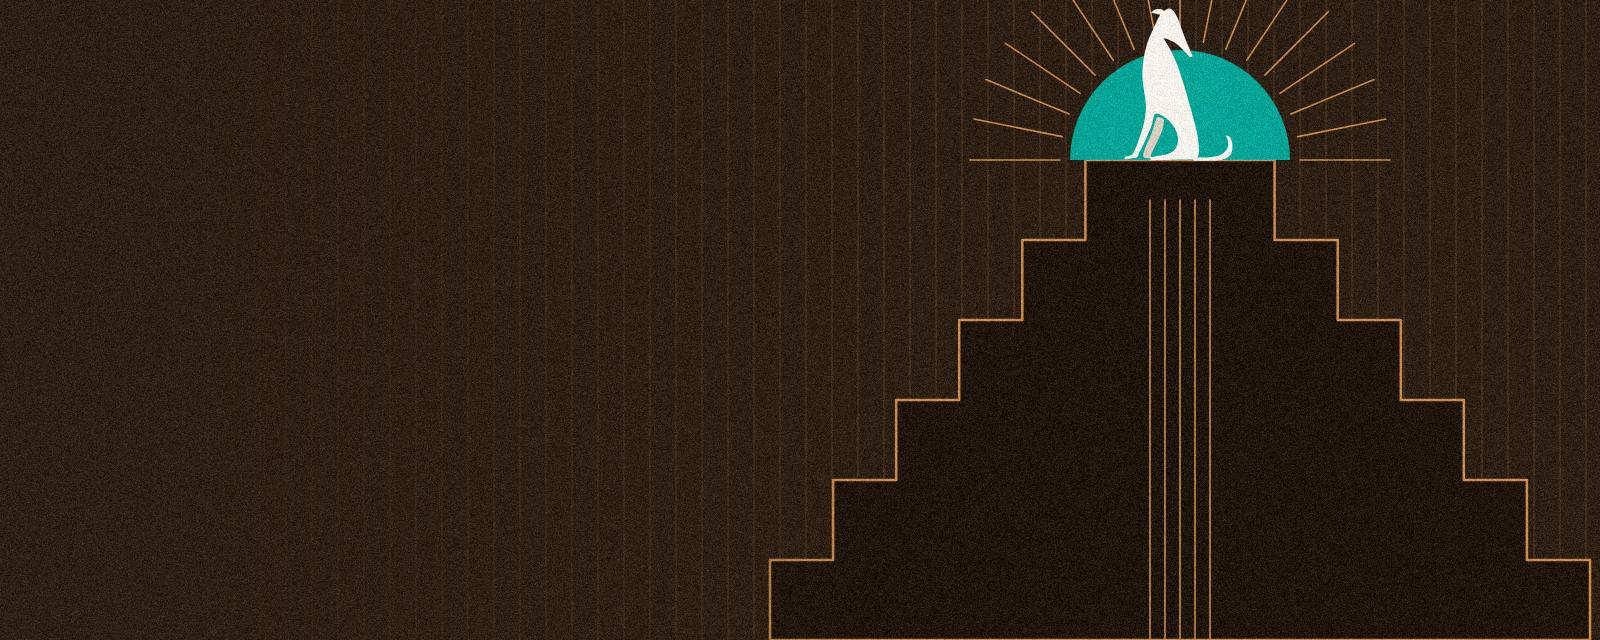
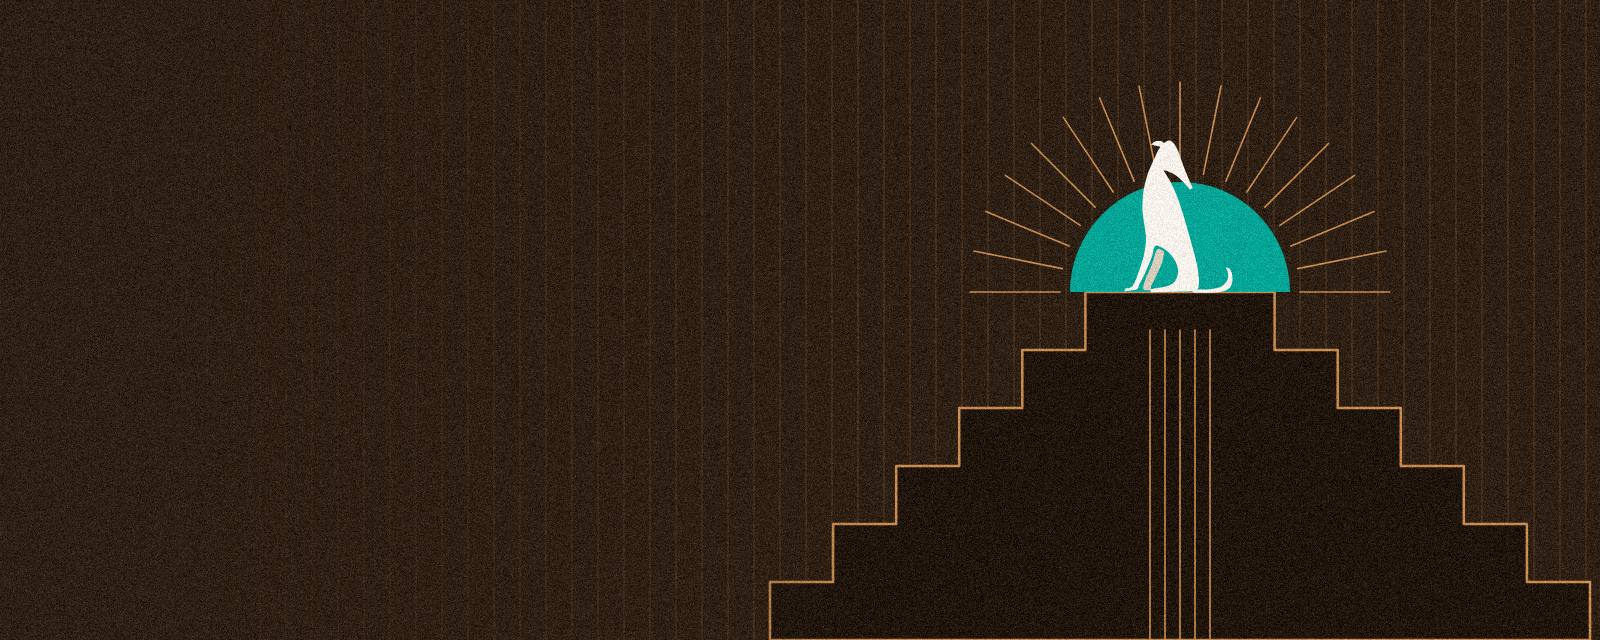
Add files via upload

Changed region(s): [[0.5, 0.0, 0.9688, 0.8438], [0.9375, 0.8438, 1.0, 0.9375], [0.4688, 0.8438, 0.5312, 0.9375]]

diff --git a/story.html b/story.html
@@ -35,10 +35,10 @@
 <section class="opener opener-story opener-klein" aria-labelledby="titel">
   <div class="opener-ebene">
     <div class="opener-buehne">
-      <img class="opener-bild" src="img/banner-story.jpg?v=3855c454" alt="" width="1600" height="640" fetchpriority="high">
+      <img class="opener-bild" src="img/banner-story.jpg?v=5d1e4513" alt="" width="1600" height="640" fetchpriority="high">
       <svg class="opener-linien" viewBox="0 0 1600 640" aria-hidden="true" focusable="false">
-    <path pathLength="100" transform="translate(0,-22)" d="M770.0,640 L770.0,560 L833.1,560 L833.1,480 L896.2,480 L896.2,400 L959.2,400 L959.2,320 L1022.3,320 L1022.3,240 L1085.4,240 L1085.4,160 L1148.5,160 L1211.5,160 L1274.6,160 L1274.6,240 L1337.7,240 L1337.7,320 L1400.8,320 L1400.8,400 L1463.8,400 L1463.8,480 L1526.9,480 L1526.9,560 L1590.0,560 L1590.0,640"/>
-    <path pathLength="100" d="M1020,160A160,160 0 0 1 1340,160"/>
+    <path pathLength="100" transform="translate(0,-16)" d="M770.0,640 L770.0,582 L833.1,582 L833.1,524 L896.2,524 L896.2,466 L959.2,466 L959.2,408 L1022.3,408 L1022.3,350 L1085.4,350 L1085.4,292 L1148.5,292 L1211.5,292 L1274.6,292 L1274.6,350 L1337.7,350 L1337.7,408 L1400.8,408 L1400.8,466 L1463.8,466 L1463.8,524 L1526.9,524 L1526.9,582 L1590.0,582 L1590.0,640"/>
+    <path pathLength="100" d="M1020,292A160,160 0 0 1 1340,292"/>
     <path pathLength="100" d="M0,600H760"/>
   </svg>
     </div>
